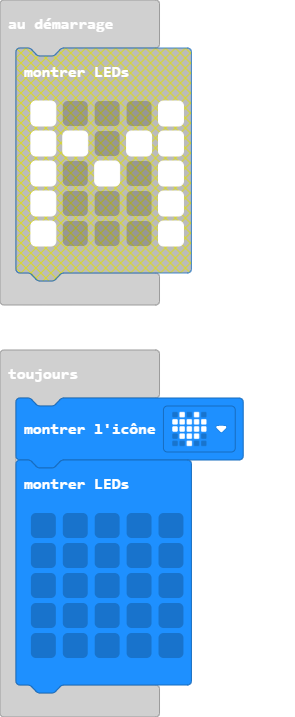
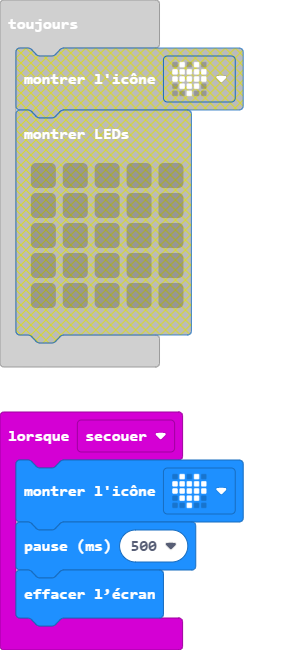
Mise à jour main.blocks, main.ts

diff --git a/main.ts b/main.ts
@@ -1,10 +1,8 @@
-basic.forever(function () {
+input.onGesture(Gesture.Shake, function () {
     basic.showIcon(IconNames.Heart)
-    basic.showLeds(`
-        . . . . .
-        . . . . .
-        . . . . .
-        . . . . .
-        . . . . .
-        `)
+    basic.pause(500)
+    basic.clearScreen()
+})
+basic.forever(function () {
+	
 })
